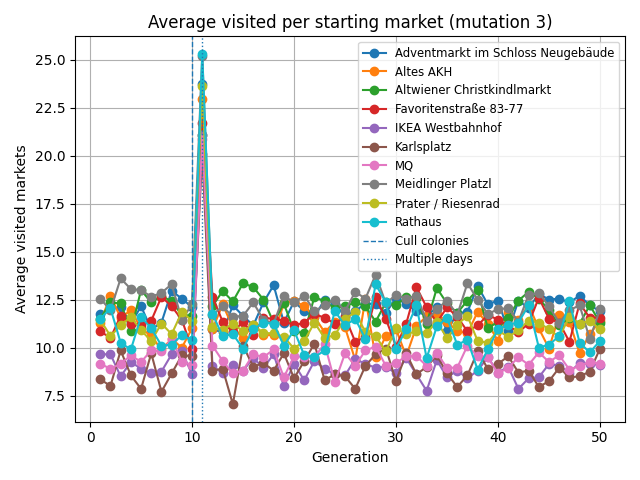
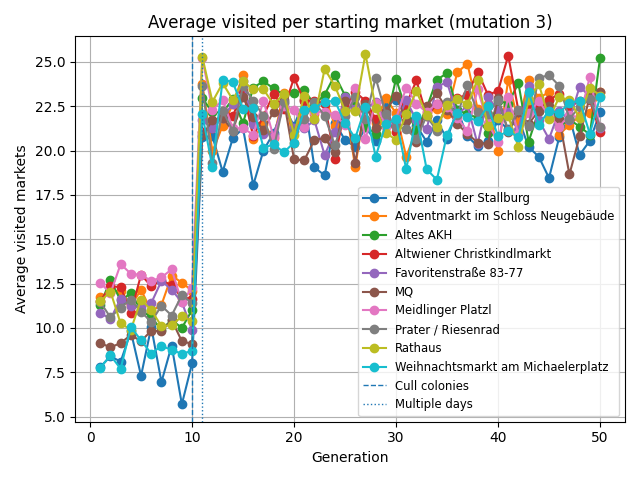
fixed multiday logic. Also change culling logic to be more robust.

diff --git a/src/main.py b/src/main.py
@@ -10,9 +10,11 @@ import pandas as pd
 import networkx as nx
 
 def cull_colonies(ant_optimizer:Ant_Optimizer,top_colonies:list[tuple[str, float]]):
-    for colonies in ant_optimizer.colonies:
-        if colonies.start_market in (i[0] for i in top_colonies):
-            ant_optimizer.colonies.remove(colonies)
+    keep_markets = {m for (m, _) in top_colonies}
+    ant_optimizer.colonies = [
+    c for c in ant_optimizer.colonies
+    if c.start_market in keep_markets
+]
         
 
 def test_1(mutation: int,
@@ -103,8 +105,9 @@ def test_1(mutation: int,
     # ------------------------------------------------------------------
     print("Running Simulation...")
     for gen in range(1, generations + 1):
-        if gen == time_to_set_mult_days or set_multiple_days:
+        if set_multiple_days or (time_to_set_mult_days is not None and gen >= time_to_set_mult_days):
             optimizer.set_ants_multiple_days(multiple_days_limit)
+            set_multiple_days = True
             print("Enabled multiple days for ants.")
 
         paths = optimizer.run_one_generation()  # gives paths for each colony

diff --git a/src/classes/ant_colony.py b/src/classes/ant_colony.py
@@ -199,6 +199,7 @@ class Ant_Colony:
                 DNA=child_dna.copy(),
                 generation=self.generation + 1,
                 mutation=self.mutation,
+                max_days= self.max_days
             )
 
             new_ants.append(ant)
